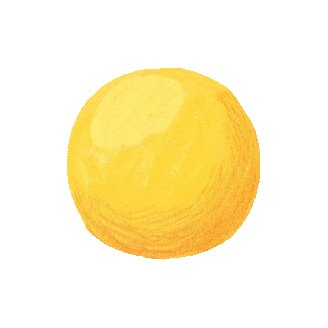
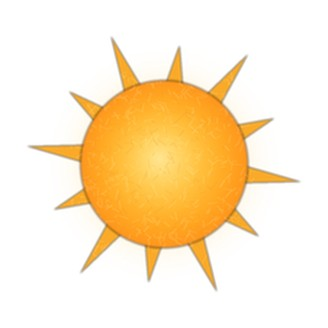
Jihoon finds: the sun is a sun with rays (it looked like a yellow ball, in the same meeting as the ball find) and sits where the 「my bag」 button no longer covers it; the white flower Youngmin asks for is now a white flower laid on the flowerbed (the tap spot was on the coloured flowers). Phone tap c

Changed region(s): [[0.0915, 0.0915, 0.9146, 0.8841]]

diff --git a/index.html b/index.html
@@ -119,14 +119,14 @@ body,button{word-break:keep-all;overflow-wrap:break-word}
 <div id="fader"></div>
 <script>
 // same address, newest version: if the page this phone has kept is older than the one online, fetch the new one and reopen
-const BUILD='1027152719';
+const BUILD='1027152832';
 try{fetch(location.pathname,{cache:'no-store'}).then(r=>r.text()).then(t=>{const m=t.match(/const BUILD='(\d+)'/);if(m&&m[1]!==BUILD&&sessionStorage.getItem('upd')!==m[1]){sessionStorage.setItem('upd',m[1]);fetch(location.pathname,{cache:'reload'}).then(()=>location.reload())}}).catch(()=>{})}catch(e){}
 </script>
-<script src="i18n.js?v=1027152719"></script>
-<script src="i18n_prologue_v2.js?v=1027152719"></script>
-<script src="day2/i18n_engine.js?v=1027152719"></script>
-<script src="day2/data.js?v=1027152719"></script>
-<script src="day3/data.js?v=1027152719"></script>
+<script src="i18n.js?v=1027152832"></script>
+<script src="i18n_prologue_v2.js?v=1027152832"></script>
+<script src="day2/i18n_engine.js?v=1027152832"></script>
+<script src="day2/data.js?v=1027152832"></script>
+<script src="day3/data.js?v=1027152832"></script>
 <script>
 // ---------- data ----------
 const MW=1672,MH=941,KID=180;
@@ -531,43 +531,43 @@ function pickHero(){const m=document.getElementById('modal'),c=document.getEleme
  c.innerHTML=`<h2>${tr('괴짜교실 반장되기')}</h2><p>${tr('말 한마디 못 하는 전학생,<br>반장 선거에 나가다.')}</p><p style="margin-top:14px">${tr('누구로 할까요?')}</p>${(()=>{const s=loadSave();return s&&s.day>=2&&s.mode===UI+'-'+LANG?`<p><button class="big" id="cont">${tr(s.day+'일차부터 이어 하기')}</button></p>`:''})()}<div class="pick heroes"><button data-h="hero_f"><img src="faces/hero_f_smile.jpg" alt="여자 주인공"></button><button data-h="hero_m"><img src="faces/hero_m_smile.jpg" alt="남자 주인공"></button></div>`;
  m.classList.add('on');{const cb=document.getElementById('cont');if(cb)cb.onclick=()=>{const s=loadSave();HERO=s.hero;Object.assign(HEART,s.heart||{});(s.found||[]).forEach(k=>FOUND.add(k));HEART_D1={...HEART};chime();(typeof contGame==='function'?contGame(s):startDay(Math.min(s.day,Object.keys(window.D3||{}).length?3:2)))}}c.querySelectorAll('.pick button').forEach(b=>b.onclick=()=>{HERO=b.dataset.h;m.classList.remove('on');chime();bgm('day');load('home_am');say([['nar','','이사 온 다음 날 아침. 아직 풀지 못한 상자들이 쌓여 있다.'],['think','sad','(오늘부터 새 학교야. 여기 말도 아직 서툰데…….)'],['think','smile','({m}한테 인사하고 학교 가야지.)']],morning)})}
 </script>
-<script src="day2/engine.js?v=1027152719"></script>
-<script src="day2/ep_minho.js?v=1027152719"></script>
-<script src="day2/i18n_meet.js?v=1027152719"></script>
-<script src="day2/meet.js?v=1027152719"></script>
-<script src="day2/ep_sua.js?v=1027152719"></script>
-<script src="day2/i18n_sua.js?v=1027152719"></script>
-<script src="day2/ep_hangyeol.js?v=1027152719"></script>
-<script src="day2/i18n_hangyeol.js?v=1027152719"></script>
-<script src="day2/ep_siwoo.js?v=1027152719"></script>
-<script src="day2/i18n_siwoo.js?v=1027152719"></script>
-<script src="day2/ep_haram.js?v=1027152719"></script>
-<script src="day2/i18n_haram.js?v=1027152719"></script>
-<script src="day2/ep_jiho.js?v=1027152719"></script>
-<script src="day2/i18n_jiho.js?v=1027152719"></script>
-<script src="day2/ep_hyeeun.js?v=1027152719"></script>
-<script src="day2/i18n_hyeeun.js?v=1027152719"></script>
-<script src="day2/ep_haneul.js?v=1027152719"></script>
-<script src="day2/i18n_haneul.js?v=1027152719"></script>
-<script src="day2/ep_junho.js?v=1027152719"></script>
-<script src="day2/i18n_junho.js?v=1027152719"></script>
-<script src="day2/ep_yuna.js?v=1027152719"></script>
-<script src="day2/i18n_yuna.js?v=1027152719"></script>
-<script src="day2/ep_yena.js?v=1027152719"></script>
-<script src="day2/i18n_yena.js?v=1027152719"></script>
-<script src="day2/ep_haeun.js?v=1027152719"></script>
-<script src="day2/i18n_haeun.js?v=1027152719"></script>
-<script src="day2/ep_youngmin.js?v=1027152719"></script>
-<script src="day2/i18n_youngmin.js?v=1027152719"></script>
-<script src="day2/ep_seah.js?v=1027152719"></script>
-<script src="day2/i18n_seah.js?v=1027152719"></script>
-<script src="day2/ep_jihoon.js?v=1027152719"></script>
-<script src="day2/i18n_jihoon.js?v=1027152719"></script>
-<script src="words_ja_ru.js?v=1027152719"></script>
-<script src="day2/mybag.js?v=1027152719"></script>
-<script src="day2/spots.js?v=1027152719"></script>
-<script src="day2/textfit.js?v=1027152719"></script>
-<script src="day2/tester.js?v=1027152719"></script>
+<script src="day2/engine.js?v=1027152832"></script>
+<script src="day2/ep_minho.js?v=1027152832"></script>
+<script src="day2/i18n_meet.js?v=1027152832"></script>
+<script src="day2/meet.js?v=1027152832"></script>
+<script src="day2/ep_sua.js?v=1027152832"></script>
+<script src="day2/i18n_sua.js?v=1027152832"></script>
+<script src="day2/ep_hangyeol.js?v=1027152832"></script>
+<script src="day2/i18n_hangyeol.js?v=1027152832"></script>
+<script src="day2/ep_siwoo.js?v=1027152832"></script>
+<script src="day2/i18n_siwoo.js?v=1027152832"></script>
+<script src="day2/ep_haram.js?v=1027152832"></script>
+<script src="day2/i18n_haram.js?v=1027152832"></script>
+<script src="day2/ep_jiho.js?v=1027152832"></script>
+<script src="day2/i18n_jiho.js?v=1027152832"></script>
+<script src="day2/ep_hyeeun.js?v=1027152832"></script>
+<script src="day2/i18n_hyeeun.js?v=1027152832"></script>
+<script src="day2/ep_haneul.js?v=1027152832"></script>
+<script src="day2/i18n_haneul.js?v=1027152832"></script>
+<script src="day2/ep_junho.js?v=1027152832"></script>
+<script src="day2/i18n_junho.js?v=1027152832"></script>
+<script src="day2/ep_yuna.js?v=1027152832"></script>
+<script src="day2/i18n_yuna.js?v=1027152832"></script>
+<script src="day2/ep_yena.js?v=1027152832"></script>
+<script src="day2/i18n_yena.js?v=1027152832"></script>
+<script src="day2/ep_haeun.js?v=1027152832"></script>
+<script src="day2/i18n_haeun.js?v=1027152832"></script>
+<script src="day2/ep_youngmin.js?v=1027152832"></script>
+<script src="day2/i18n_youngmin.js?v=1027152832"></script>
+<script src="day2/ep_seah.js?v=1027152832"></script>
+<script src="day2/i18n_seah.js?v=1027152832"></script>
+<script src="day2/ep_jihoon.js?v=1027152832"></script>
+<script src="day2/i18n_jihoon.js?v=1027152832"></script>
+<script src="words_ja_ru.js?v=1027152832"></script>
+<script src="day2/mybag.js?v=1027152832"></script>
+<script src="day2/spots.js?v=1027152832"></script>
+<script src="day2/textfit.js?v=1027152832"></script>
+<script src="day2/tester.js?v=1027152832"></script>
 <script>
 // the goal shows big for a few seconds, then folds into a small pill (tap it to open it again)
 {const g=document.getElementById('goal');let t=null;const big=()=>{g.classList.remove('mini');clearTimeout(t);t=setTimeout(()=>g.classList.add('mini'),4000)};

diff --git a/day2/ep_jihoon.js b/day2/ep_jihoon.js
@@ -191,7 +191,7 @@ EP.jihoon=[
   common:[['me','surprised','{m}, 창밖에 {@cloud} 있어?'],['mom','surprised','노을 쪽에 하나 있네. 저건 뭐 같아?'],['me','smile','음…… 양말. 지훈이가 아까 짝 잃어버린 양말 같다고 했어.'],['mom','laugh','(웃음) 짝 잃어버린 양말이라니.']]}},
 
 // ■ Day 4 — 포즈 끝나고 (3)
-{title:'포즈 끝나고',scene:'jihoon_03',place:'flowerbed',at:[1270,560],with:[['youngmin',470,660]],taps:{flowerbed:[['flower',1440,870,55]]},
+{title:'포즈 끝나고',scene:'jihoon_03',place:'flowerbed',at:[1270,560],with:[['youngmin',470,660]],
  pre:[
   {pic:'jihoon_03a'},
   ['nar','','점심시간. 화단 앞 낮은 담에 지훈이가 앉아 있었다.'],
@@ -276,6 +276,7 @@ EP.jihoon=[
   ['jihoon','smile','봤지? 포즈 끝나고, 웃을 때가 진짜야. 물어보고, 기다리면 돼.'],
   ['think','smile','(물어보면 그 모습이 없어지는 줄 알았어. 근데 기다리니까 다시 왔어.)'],
   ['youngmin','smile','저기 하얀 {@flower}도 찍어 줄래? 나 그 {@flower} 좋아해.'],
+  {lay:[['flower',1440,850,70]]},
   {k:'flower',goal:'「{x}」 찍기'},
   ['nar','','화단의 하얀 {@flower|을} 찍었다. 찰칵. 이번엔 흔들리지 않았다.'],
   ['nar','','종이 울리기 전에 나는 {@camera} 끈을 풀어 지훈이에게 돌려줬다. 지훈이가 화면을 넘기며 하얀 {@flower} {@photo|을} 봤다.'],
@@ -1128,7 +1129,7 @@ EP.jihoon=[
   ['nar','','점심시간. 골대 뒤 잔디에 지훈이가 앉아 있었다. {@camera} 단추를 계속 눌렀다. 화면이 까맸다.'],
   ['jihoon','smile','배터리 없어. 어제 충전 까먹었어.'],
   ['jihoon','smile','오늘 {@sun} 진짜 좋은데. {@cloud}도 있고. 다 놓치겠어.'],
-  {lay:[['sun',1560,90,100]]},
+  {lay:[['sun',1290,95,100]]},
   {k:'sun',goal:'「{x}」 가리키기'},
   {clear:['sun']},
   ['nar','','한 {@hand|으로} {@eye|을} 가리고, 다른 {@hand|으로} {@sun|가} 있는 쪽을 가리켰다. {@sun|를} 똑바로 보지는 않았다.'],
